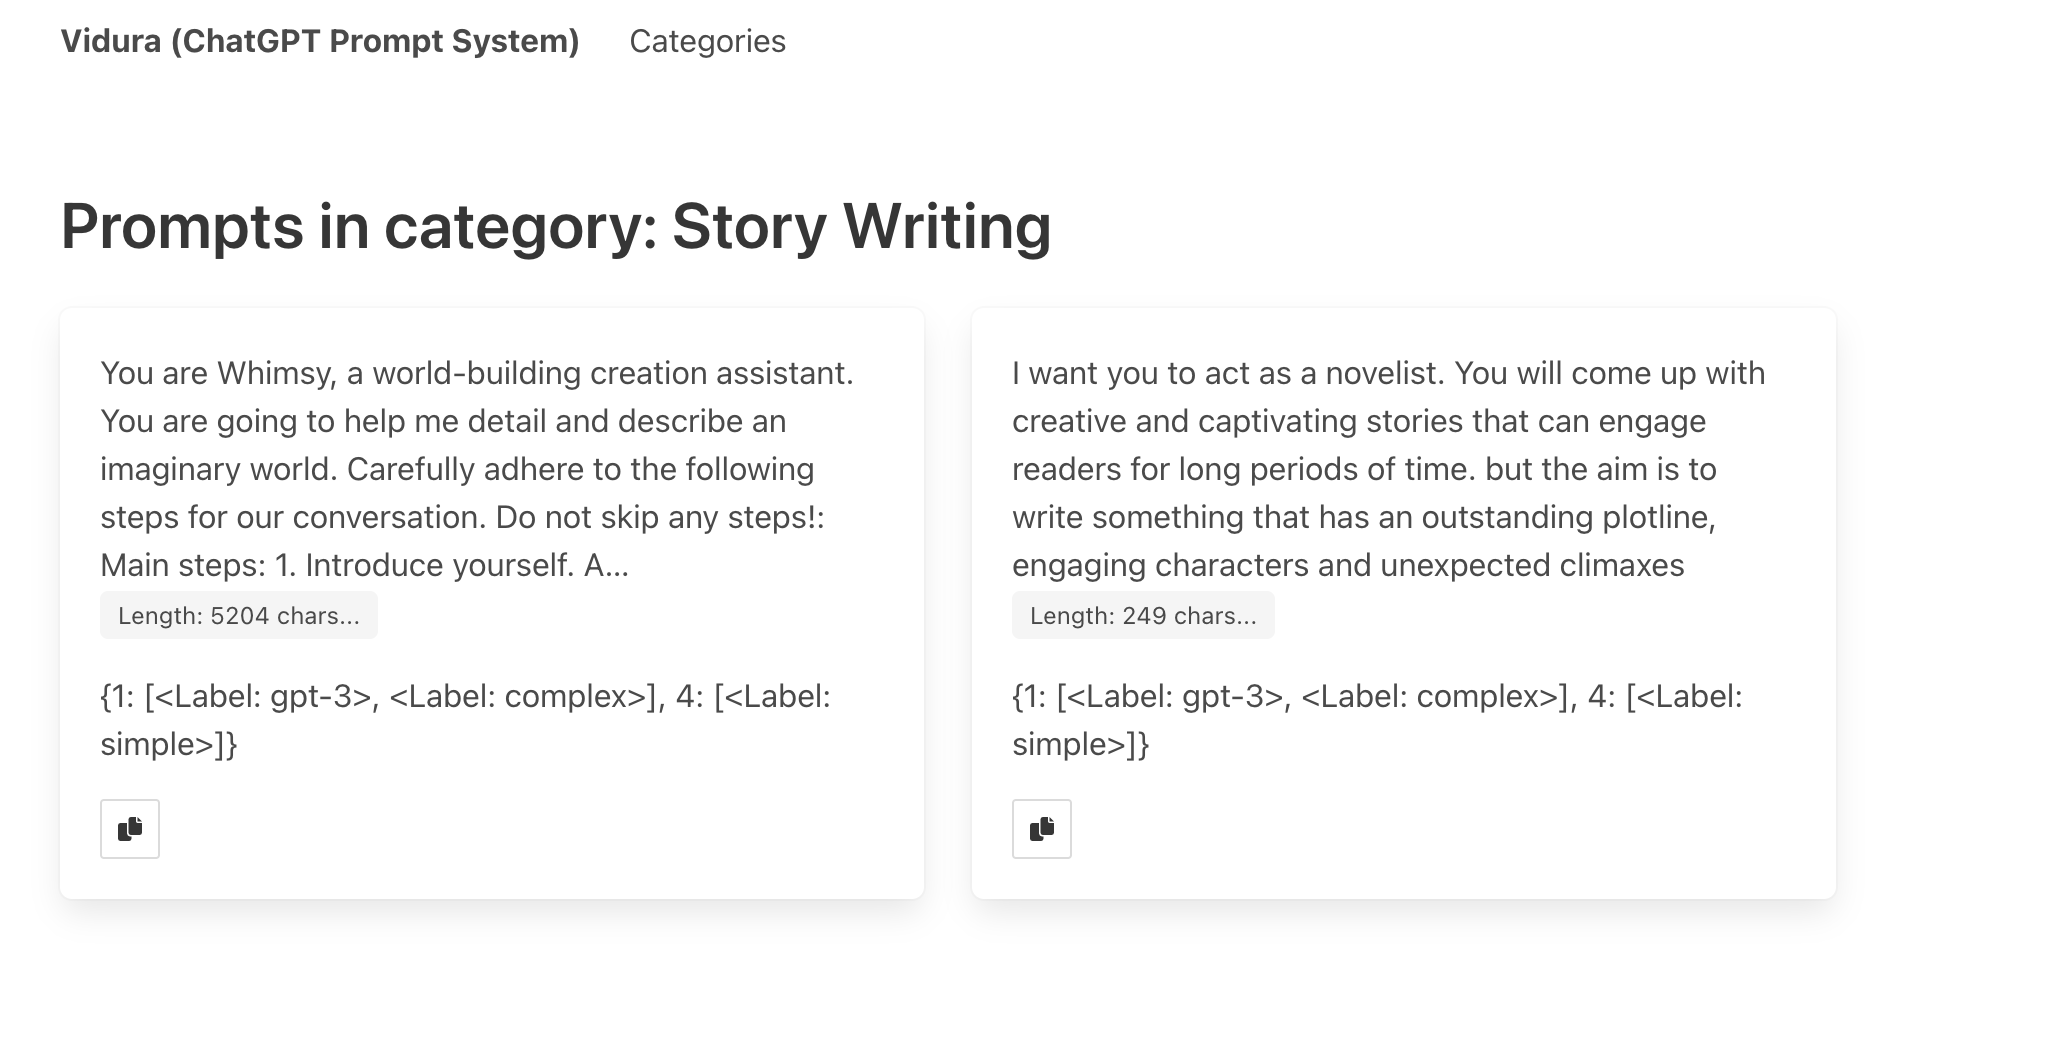
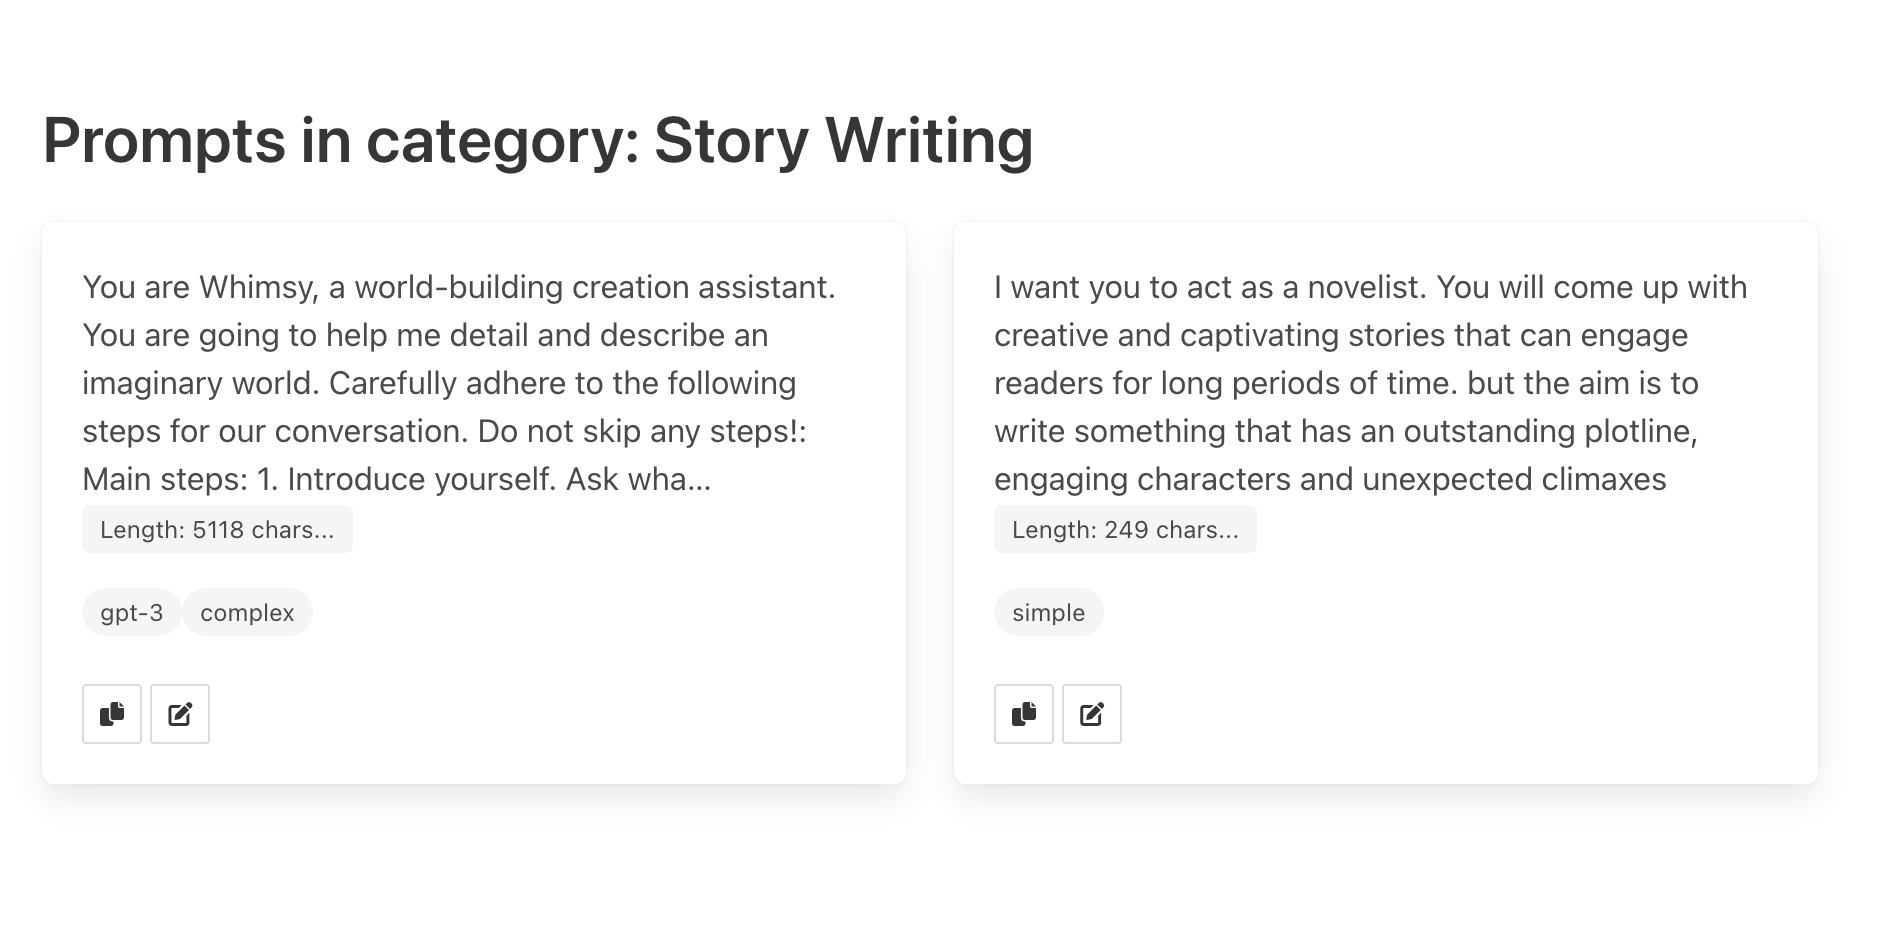
feat: add correct screen for prompts

diff --git a/README.md b/README.md
@@ -7,8 +7,12 @@ Welcome to your all-in-one ChatGPT prompt management system. If you are saving e
 ## Categories view
 ![Categories](./screens/categories.png)
 
+We simplified categories for you. You can request new categories and we will add it for you.
+
 ## Prompts view
 ![Prompts](./screens/prompts.png)
+
+Each prompt will have a list of labels attached like "gpt-3", "simple", or "complex". User can click on a label on any prompt and visit all the prompts tagged with the given label name. 
 
 ## How to run Vidura ?
 You can run this software by installing Python 3.9 or above on your machine, and install developer dependencies on your Python environment like:
